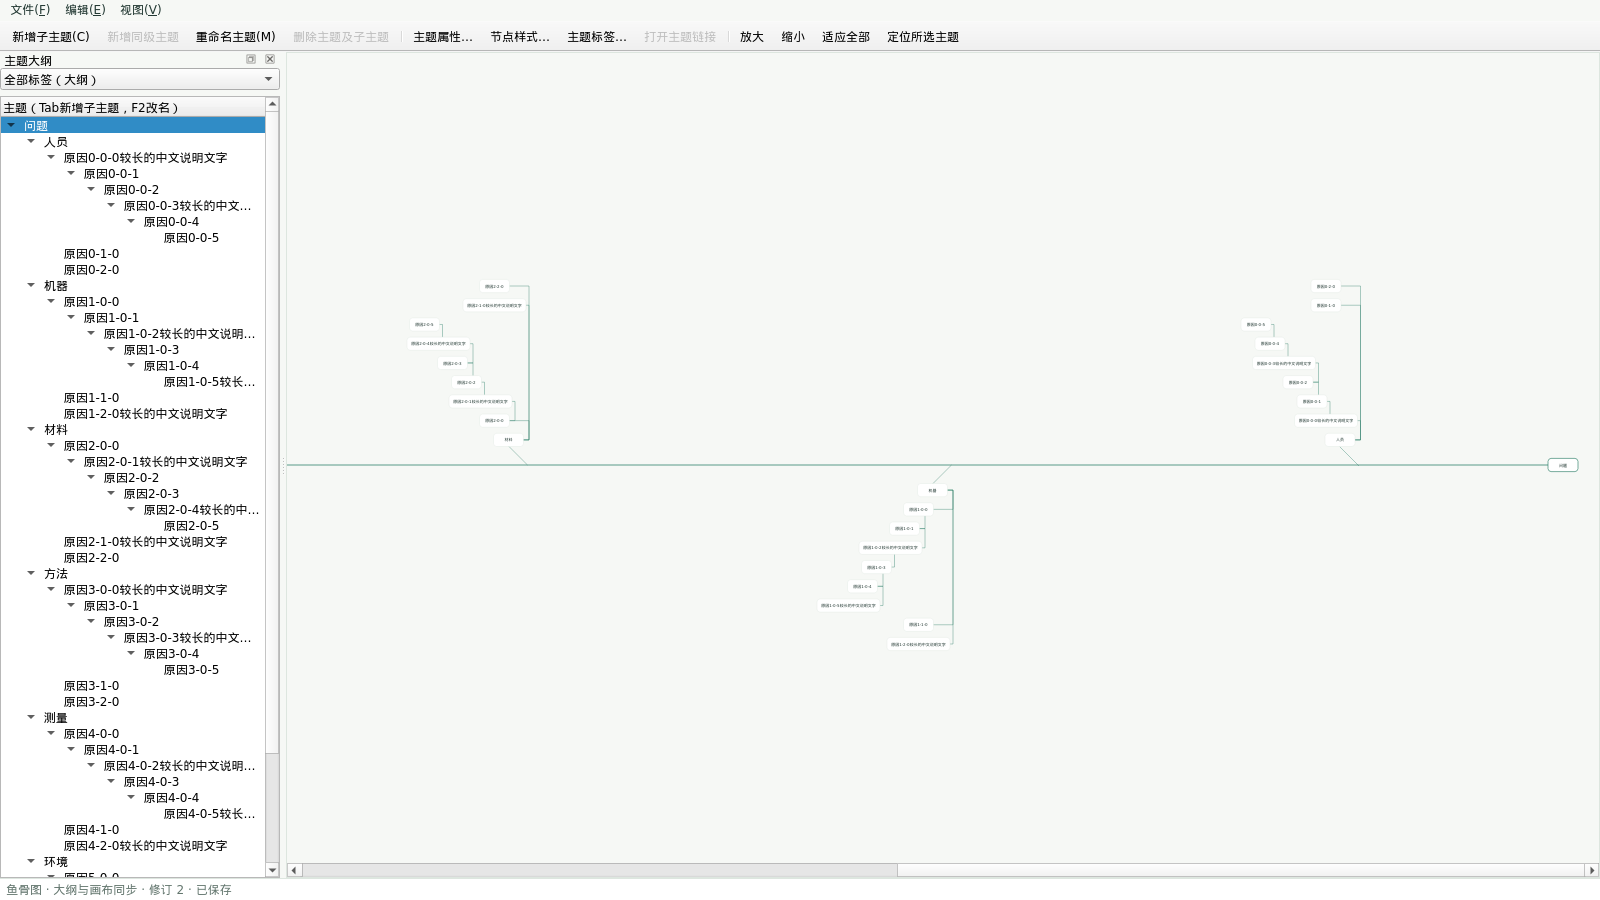
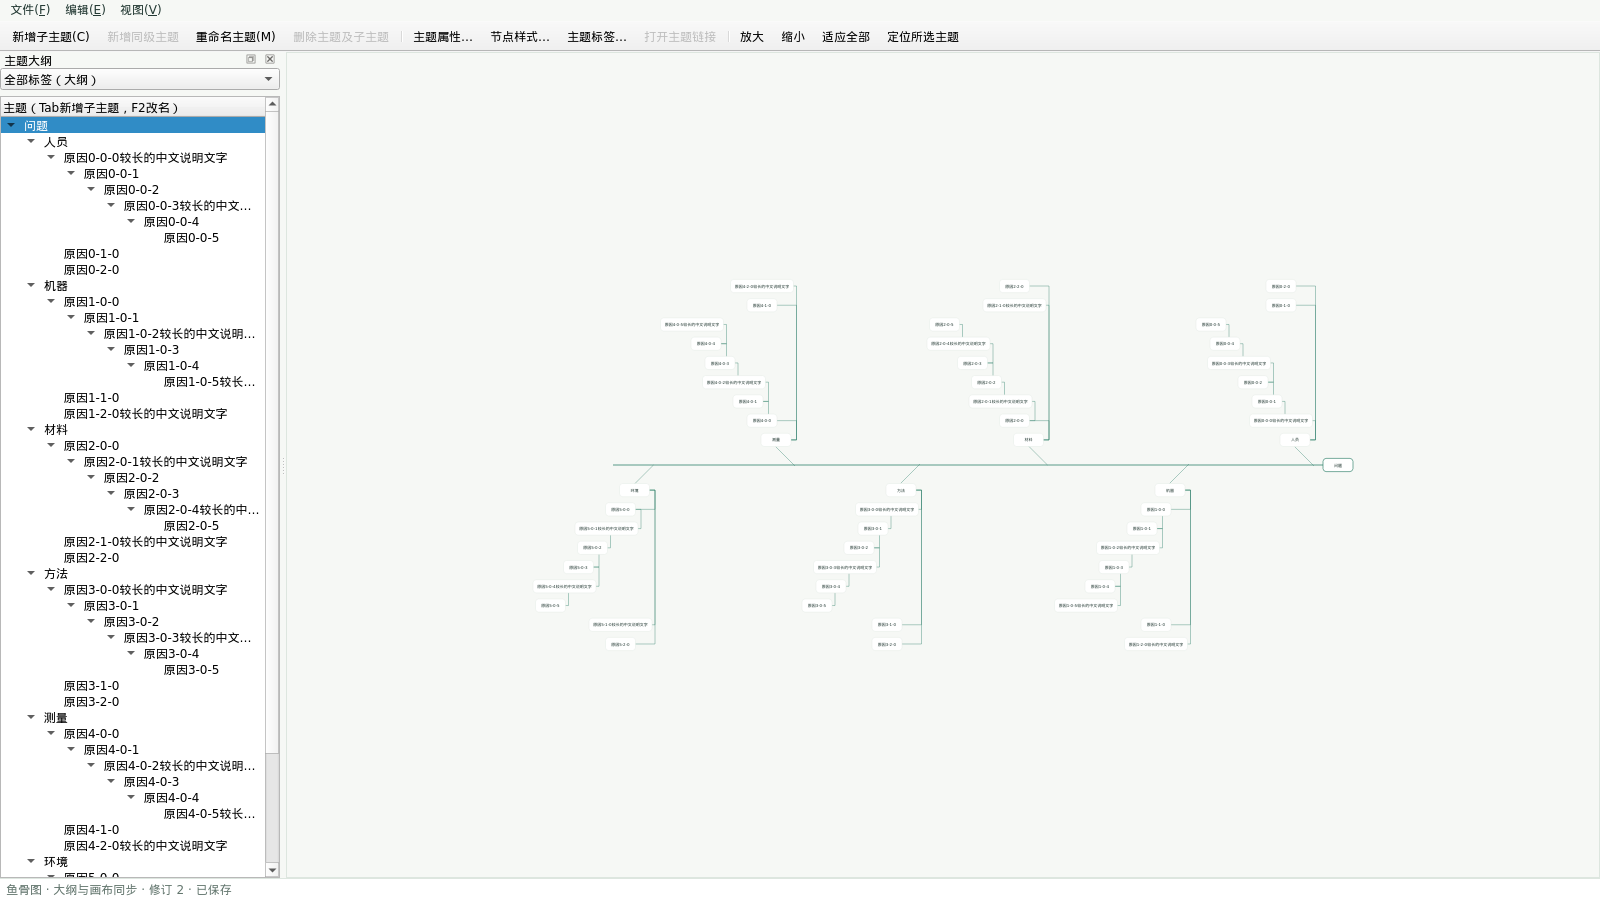
docs(handover): 合并main a21a4d7后复验470项并重拍鱼骨截图 [H-026]
普通合并乙BUG-018~021修复（a21a4d7），仅日志/交接追加冲突按时间拼接；沙箱Linux Debug/Release各22套件470项通过（main同环境468项），不再需要-include unistd.h；原外框探针四种情况均合法；深层鱼骨画布宽9644→3284。冻结Kit复跑与真人未执行。

diff --git a/docs/交接文档.md b/docs/交接文档.md
@@ -1762,6 +1762,6 @@ slotWidth            = 类别半宽 + leftExtent + kSlotGap(40)
 ## 甲R11鱼骨视图接线（H-026，2026-10-30，草稿PR待复核）
 
 - 分支`feature/a/R11-fishbone-view`，基线main=`9c89bcd`；只改`MainWindow.{h,cpp}`与`tst_ui.cpp`，鱼骨表改用乙`FishboneLayout`并绘制主骨/斜骨/支骨，导图仍用`TreeLayout`。
-- 验证：沙箱Linux Debug/Release合并main d16a92b后各22套件459项通过、0失败0跳过（非冻结Kit）；冻结Windows Kit复跑待非作者执行；真人未执行。
-- 详细说明与已知问题（鱼骨横向过宽、工作表入口待下一批）见[H-026说明](reviews/H-026-甲R11鱼骨视图接线.md)，证据`docs/evidence/20261030-甲R11鱼骨视图`。
+- 验证：沙箱Linux Debug/Release合并main a21a4d7后各22套件470项通过、0失败0跳过（非冻结Kit）；冻结Windows Kit复跑待非作者执行；真人未执行。
+- 详细说明与已知问题（鱼骨横向过宽已由乙BUG-021修复；工作表入口待下一批）见[H-026说明](reviews/H-026-甲R11鱼骨视图接线.md)，证据`docs/evidence/20261030-甲R11鱼骨视图`。
 - 待乙复核布局接口用法、丙复核使用流程；甲不自批合main，不宣告R11/M3通过。

diff --git a/docs/开发日志.md b/docs/开发日志.md
@@ -2655,3 +2655,4 @@ Debug / Release 各 **22 套件 467 项**通过。
 - 发现：深层样例中每根主骨实宽470–536像素、槽宽约1630–1700像素，画布宽9644像素，属乙`FishboneLayout`槽宽计算偏大（逐层宽度相加），记为P2显示问题待乙处理，本分支未改算法。
 - 另记：甲复核PR27时实测`moveSubtree`不维护外框/概要（移出父级后成员跨父、插入后成员不连续，校验器均放行），PR27已在复核意见发布后直接合入main，该问题现存于main，作为缺陷候选交乙处理、丙登记。
 | 2026-10-30 17:10:00 | 甲takagi（AI协助） | DEV-20261030-004 / H-026：R11鱼骨视图改接FishboneLayout，新增2条UI回归（改前红测），沙箱Linux双配置各21套件445项、合并main d16a92b后各22套件459项通过；冻结Kit复跑与真人未执行 [R11][H-026] |
+| 2026-10-30 18:40:00 | 甲takagi（AI协助） | H-026复验：普通合并main a21a4d7（乙BUG-018~021修复），沙箱Linux双配置各22套件470项通过（main同环境468项）；原外框探针4种情况均合法；鱼骨深层样例画布宽9644→3284，截图重拍；冻结Kit与真人未执行 [R11][H-026] |

diff --git a/AGENTS.md b/AGENTS.md
@@ -6,8 +6,8 @@ Windows 桌面思维导图课程软件。仓库根目录即本文件所在目录
 ## 甲当前交付：H-026 R11鱼骨视图（2026-10-30，草稿PR待复核）
 
 - `feature/a/R11-fishbone-view`基于main `9c89bcd`：鱼骨工作表改用`FishboneLayout`并绘制主骨/斜骨/支骨，导图不变；仅MainWindow与tst_ui。
-- 沙箱Linux双配置合并main d16a92b后各22套件459项通过（非冻结Kit，冻结Kit复跑与真人未执行）。说明`docs/reviews/H-026-甲R11鱼骨视图接线.md`。
-- 遗留：鱼骨槽宽偏大（乙布局，P2）；新建/切换工作表入口、R03/R07/R08/R09界面为甲后续批次。
+- 沙箱Linux双配置合并main a21a4d7后各22套件470项通过（非冻结Kit，冻结Kit复跑与真人未执行）。说明`docs/reviews/H-026-甲R11鱼骨视图接线.md`。
+- 遗留：鱼骨槽宽已由乙BUG-021修复；新建/切换工作表入口、R03/R07/R08/R09界面为甲后续批次。
 
 ## H-022已合入（2026-10-26 乙回执）
 
